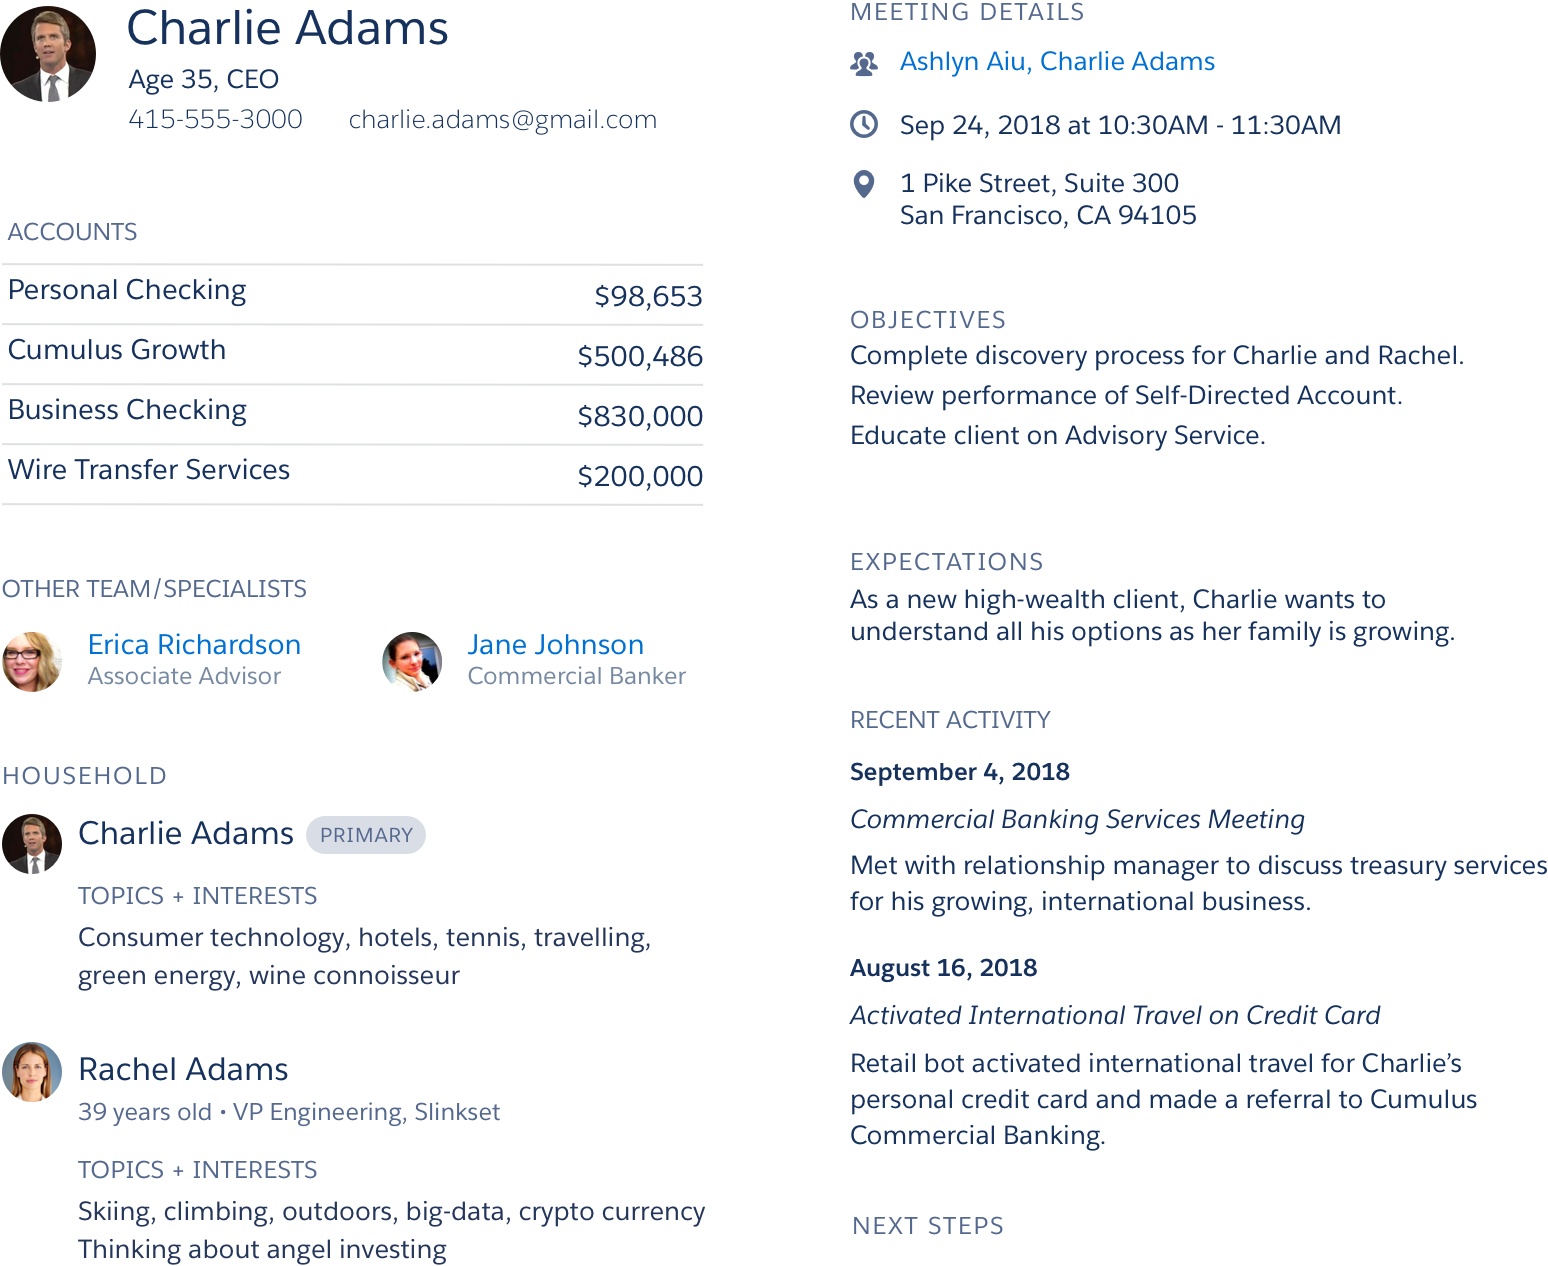
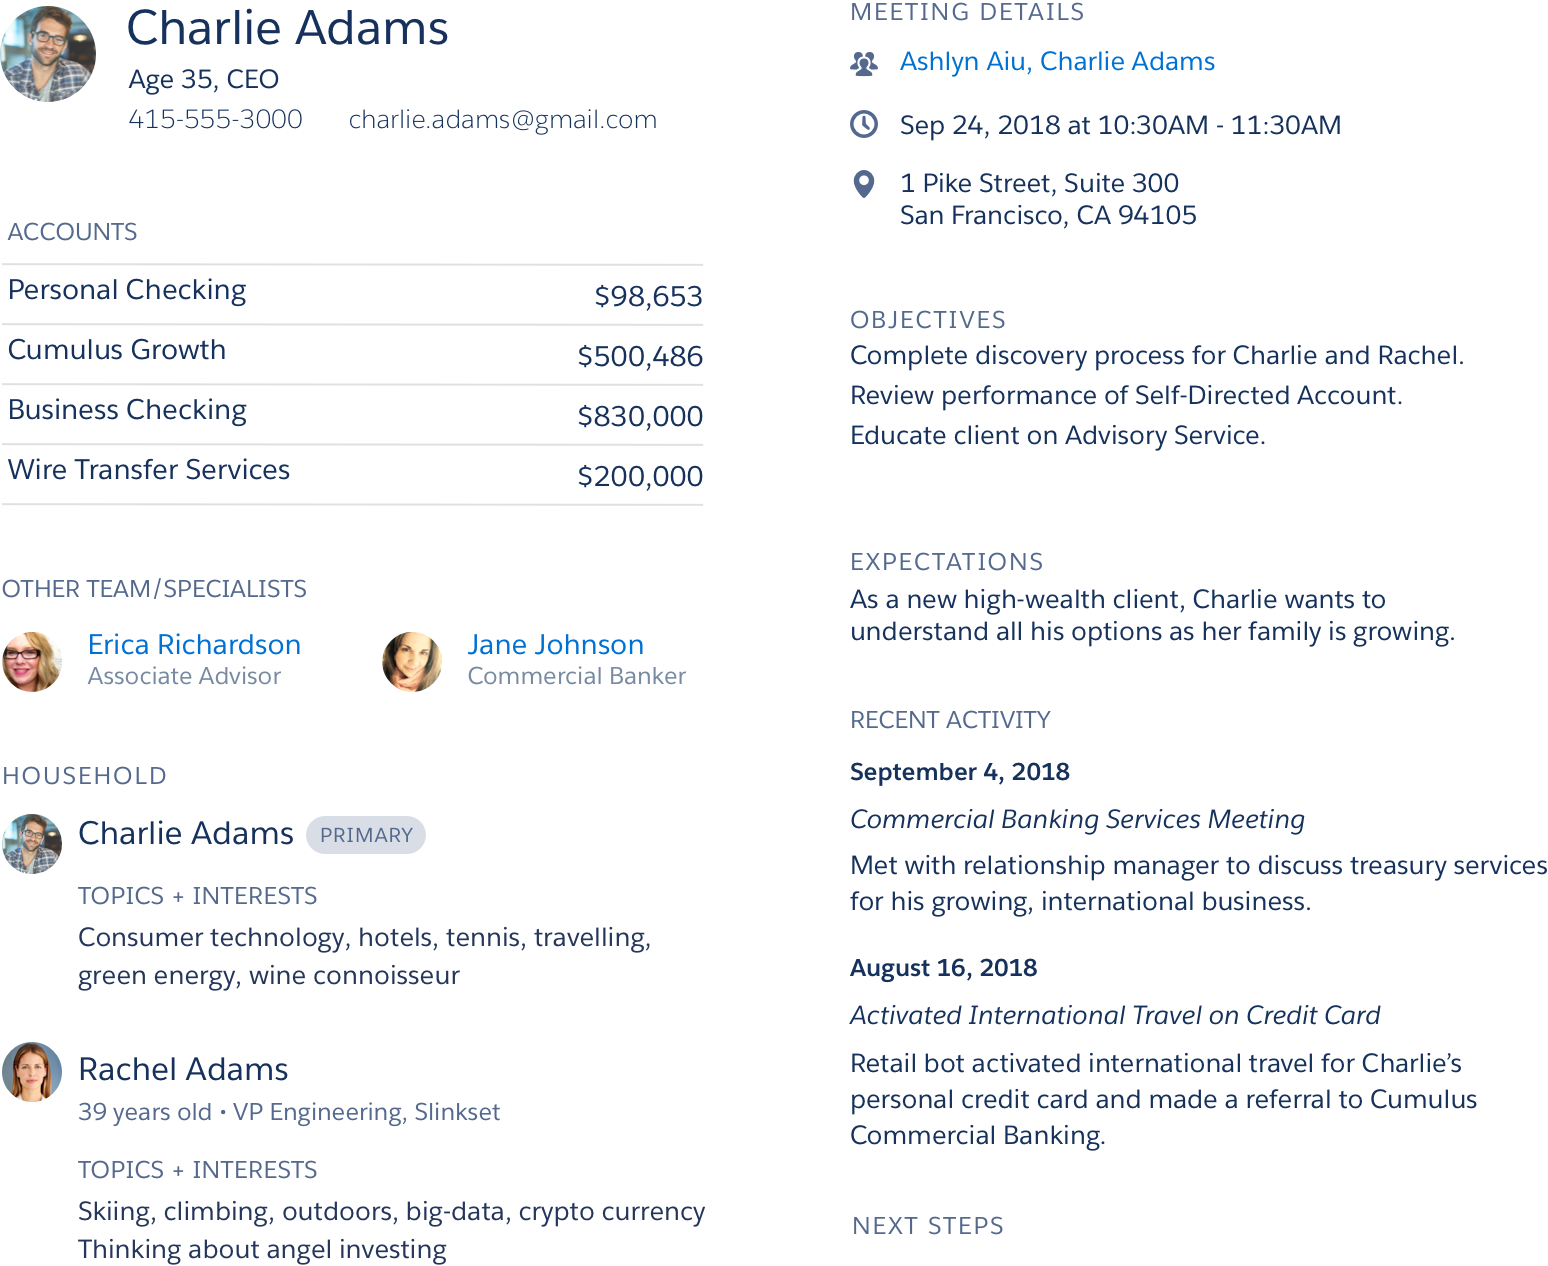
update images and styles

Changed region(s): [[0.0, 0.0, 0.062, 0.0924], [0.0, 0.6469, 0.062, 0.7085], [0.2481, 0.4929, 0.2791, 0.5545]]

diff --git a/src/components/desktop/Analytics.js b/src/components/desktop/Analytics.js
@@ -42,7 +42,7 @@ class Analytics extends Component {
     }
 
     return (
-      <div className="desktop">
+      <div className="desktop analytics">
         <img src={renderScreenState()} alt="" onClick={() => this.updateDemoState(this.state.demoState)}/>
       </div>
     );

diff --git a/src/styles/desktop.sass b/src/styles/desktop.sass
@@ -263,3 +263,11 @@ $break-large: 1260px
     width: 60%
   .sub-right
     width: 38%
+
+////////////////////
+/////Analytics/////
+//////////////////
+
+.desktop .analtyics img
+  width: 100%
+  max-width: inherit

diff --git a/src/styles/timeline.css b/src/styles/timeline.css
@@ -4,7 +4,6 @@
 .timeline-container {
   margin: 0 auto;
   min-height: 300px;
-  max-width: 920px;
   min-width: 300px;
   overflow: hidden;
   position: relative;

diff --git a/src/styles/timeline.sass b/src/styles/timeline.sass
@@ -5,7 +5,6 @@
 .timeline-container
   margin: 0 auto
   min-height: 300px
-  max-width: 920px
   min-width: 300px
   overflow: hidden
   position: relative
